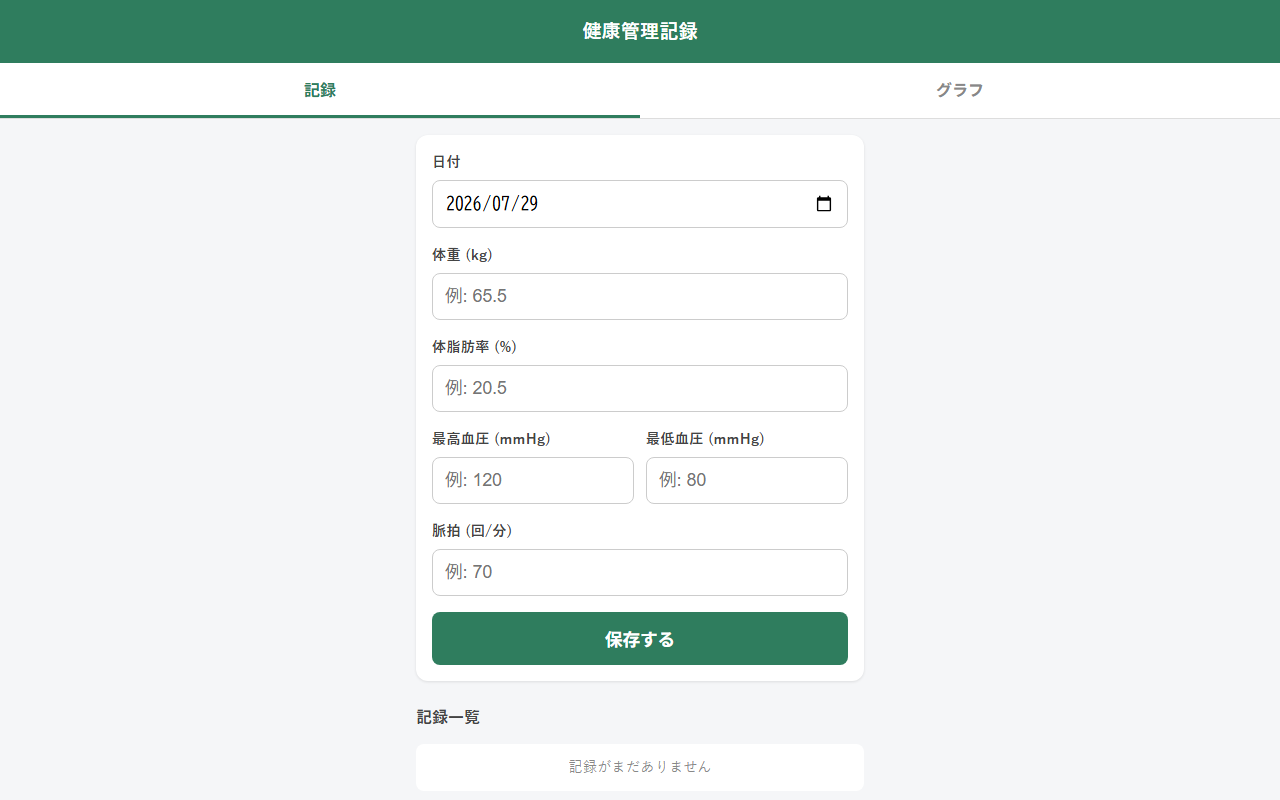
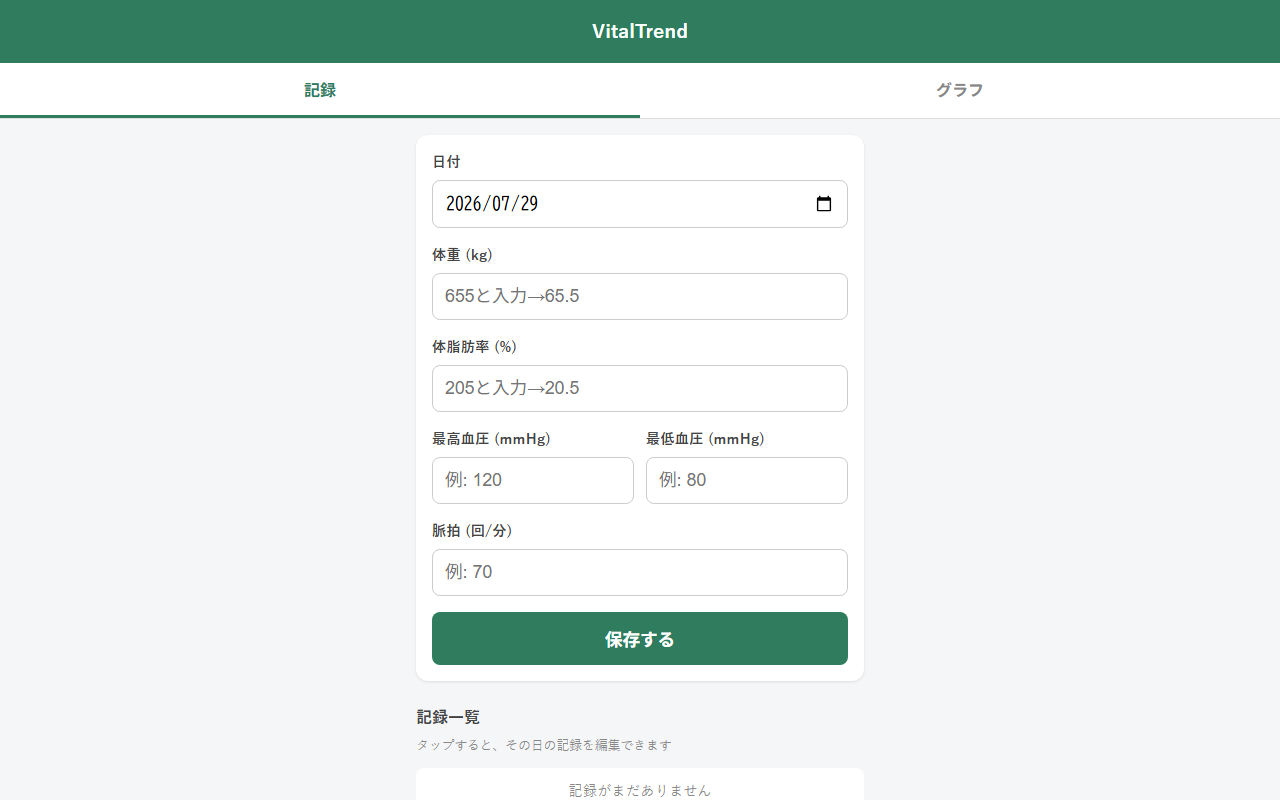
Rename app to VitalTrend, add quick-decimal input and record editing
- Weight/body fat inputs now take digits and auto-place the decimal
  (e.g. typing 655 becomes 65.5)
- Selecting a date (via the date field or tapping a past entry in the
  list) now pre-fills the form with that day's saved values, so a
  correction to one field no longer wipes out the others

diff --git a/app.js b/app.js
@@ -27,6 +27,10 @@ function saveRecords(records) {
   localStorage.setItem(STORAGE_KEY, JSON.stringify(records));
 }
 
+function findRecord(date) {
+  return loadRecords().find((r) => r.date === date) || null;
+}
+
 function upsertRecord(newRecord) {
   const records = loadRecords();
   const index = records.findIndex((r) => r.date === newRecord.date);
@@ -58,6 +62,7 @@ function renderRecords() {
 
   for (const r of records) {
     const li = document.createElement("li");
+    li.dataset.date = r.date;
     li.innerHTML = `
       <div class="record-date">${r.date}</div>
       <div>体重: ${formatValue(r.weight, " kg")} / 体脂肪率: ${formatValue(r.bodyFat, " %")}</div>
@@ -72,27 +77,69 @@ function getNumberOrNull(id) {
   return value === "" ? null : Number(value);
 }
 
+function setFieldValue(id, value) {
+  document.getElementById(id).value = value === null || value === undefined ? "" : String(value);
+}
+
+function populateFormForDate(date) {
+  const existing = findRecord(date);
+  setFieldValue("weight", existing && existing.weight !== null ? existing.weight.toFixed(1) : "");
+  setFieldValue("bodyFat", existing && existing.bodyFat !== null ? existing.bodyFat.toFixed(1) : "");
+  setFieldValue("systolic", existing ? existing.systolic : "");
+  setFieldValue("diastolic", existing ? existing.diastolic : "");
+  setFieldValue("pulse", existing ? existing.pulse : "");
+}
+
+function attachAutoDecimalInput(el) {
+  el.addEventListener("input", () => {
+    const digits = el.value.replace(/[^0-9]/g, "").slice(0, 4);
+    if (digits === "") {
+      el.value = "";
+      return;
+    }
+    el.value = (parseInt(digits, 10) / 10).toFixed(1);
+  });
+}
+
+attachAutoDecimalInput(document.getElementById("weight"));
+attachAutoDecimalInput(document.getElementById("bodyFat"));
+
+dateInput.addEventListener("change", () => {
+  populateFormForDate(dateInput.value);
+});
+
+recordsList.addEventListener("click", (e) => {
+  const li = e.target.closest("li[data-date]");
+  if (!li) return;
+  dateInput.value = li.dataset.date;
+  populateFormForDate(li.dataset.date);
+  form.scrollIntoView({ behavior: "smooth" });
+});
+
 form.addEventListener("submit", (e) => {
   e.preventDefault();
 
-  const newRecord = {
-    date: dateInput.value,
-    weight: getNumberOrNull("weight"),
-    bodyFat: getNumberOrNull("bodyFat"),
-    systolic: getNumberOrNull("systolic"),
-    diastolic: getNumberOrNull("diastolic"),
-    pulse: getNumberOrNull("pulse"),
-  };
-
-  if (!newRecord.date) {
+  const date = dateInput.value;
+  if (!date) {
     alert("日付を入力してください");
     return;
   }
 
+  const existing = findRecord(date);
+
+  const newRecord = {
+    date,
+    weight: getNumberOrNull("weight") ?? (existing ? existing.weight : null),
+    bodyFat: getNumberOrNull("bodyFat") ?? (existing ? existing.bodyFat : null),
+    systolic: getNumberOrNull("systolic") ?? (existing ? existing.systolic : null),
+    diastolic: getNumberOrNull("diastolic") ?? (existing ? existing.diastolic : null),
+    pulse: getNumberOrNull("pulse") ?? (existing ? existing.pulse : null),
+  };
+
   upsertRecord(newRecord);
   renderRecords();
-  form.reset();
   dateInput.value = todayString();
+  populateFormForDate(dateInput.value);
 
   if (typeof renderChart === "function") {
     renderChart();
@@ -100,4 +147,5 @@ form.addEventListener("submit", (e) => {
 });
 
 dateInput.value = todayString();
+populateFormForDate(dateInput.value);
 renderRecords();

diff --git a/index.html b/index.html
@@ -3,20 +3,20 @@
 <head>
 <meta charset="UTF-8">
 <meta name="viewport" content="width=device-width, initial-scale=1.0, maximum-scale=1.0, user-scalable=no">
-<title>健康管理アプリ</title>
+<title>VitalTrend</title>
 <link rel="manifest" href="manifest.json">
 <meta name="theme-color" content="#2f7d5e">
 <meta name="mobile-web-app-capable" content="yes">
 <meta name="apple-mobile-web-app-capable" content="yes">
 <meta name="apple-mobile-web-app-status-bar-style" content="default">
-<meta name="apple-mobile-web-app-title" content="健康管理">
+<meta name="apple-mobile-web-app-title" content="VitalTrend">
 <link rel="apple-touch-icon" href="icons/apple-touch-icon.png">
 <link rel="icon" href="icons/icon-192.png">
 <link rel="stylesheet" href="style.css">
 </head>
 <body>
 <header>
-  <h1>健康管理記録</h1>
+  <h1>VitalTrend</h1>
 </header>
 
 <nav id="main-tabs" class="tab-bar">
@@ -34,12 +34,12 @@
 
       <div class="field">
         <label for="weight">体重 (kg)</label>
-        <input type="number" id="weight" name="weight" inputmode="decimal" step="0.1" min="0" max="300" placeholder="例: 65.5">
+        <input type="text" id="weight" name="weight" inputmode="numeric" placeholder="655と入力→65.5">
       </div>
 
       <div class="field">
         <label for="bodyFat">体脂肪率 (%)</label>
-        <input type="number" id="bodyFat" name="bodyFat" inputmode="decimal" step="0.1" min="0" max="100" placeholder="例: 20.5">
+        <input type="text" id="bodyFat" name="bodyFat" inputmode="numeric" placeholder="205と入力→20.5">
       </div>
 
       <div class="field-row">
@@ -63,6 +63,7 @@
 
     <section id="records-section">
       <h2>記録一覧</h2>
+      <p class="hint">タップすると、その日の記録を編集できます</p>
       <ul id="records-list"></ul>
     </section>
   </section>

diff --git a/style.css b/style.css
@@ -168,6 +168,13 @@ input:focus {
 #records-section h2 {
   font-size: 1rem;
   color: #444;
+  margin-bottom: 4px;
+}
+
+#records-section .hint {
+  font-size: 0.8rem;
+  color: #888;
+  margin: 0 0 12px;
 }
 
 #records-list {
@@ -184,6 +191,14 @@ input:focus {
   box-shadow: 0 1px 2px rgba(0, 0, 0, 0.08);
   font-size: 0.9rem;
   line-height: 1.6;
+}
+
+#records-list li[data-date] {
+  cursor: pointer;
+}
+
+#records-list li[data-date]:active {
+  background: #eef5f1;
 }
 
 #records-list .record-date {

diff --git a/sw.js b/sw.js
@@ -1,4 +1,4 @@
-const CACHE_NAME = "health-app-cache-v2";
+const CACHE_NAME = "health-app-cache-v3";
 const PRECACHE_FILES = [
   "./",
   "index.html",

diff --git a/README.md b/README.md
@@ -1,4 +1,4 @@
-# 健康管理記録
+# VitalTrend
 
 体重・体脂肪率・血圧(最高/最低)・脈拍を毎日記録し、推移をグラフで確認できる個人利用向けのPWA(Progressive Web App)です。
 
@@ -7,6 +7,8 @@
 ## 機能
 
 - 体重・体脂肪率・最高血圧・最低血圧・脈拍の入力と保存
+- 体重・体脂肪率は「655」と入力するだけで自動的に「65.5」として扱われる電卓風の数値入力
+- 日付を選ぶとその日の既存の記録が表示され、間違えた項目だけをピンポイントで修正可能(他の項目は保持されます)。記録一覧をタップしても同様に編集できます
 - 日ごと・週ごと・月ごとの切り替えによる折れ線グラフ表示
 - 体重・体脂肪率・血圧・脈拍を個別に確認できるグラフに加え、体重と血圧をまとめて確認できるグラフ
 - ホーム画面に追加してアプリのように起動可能(PWA)
